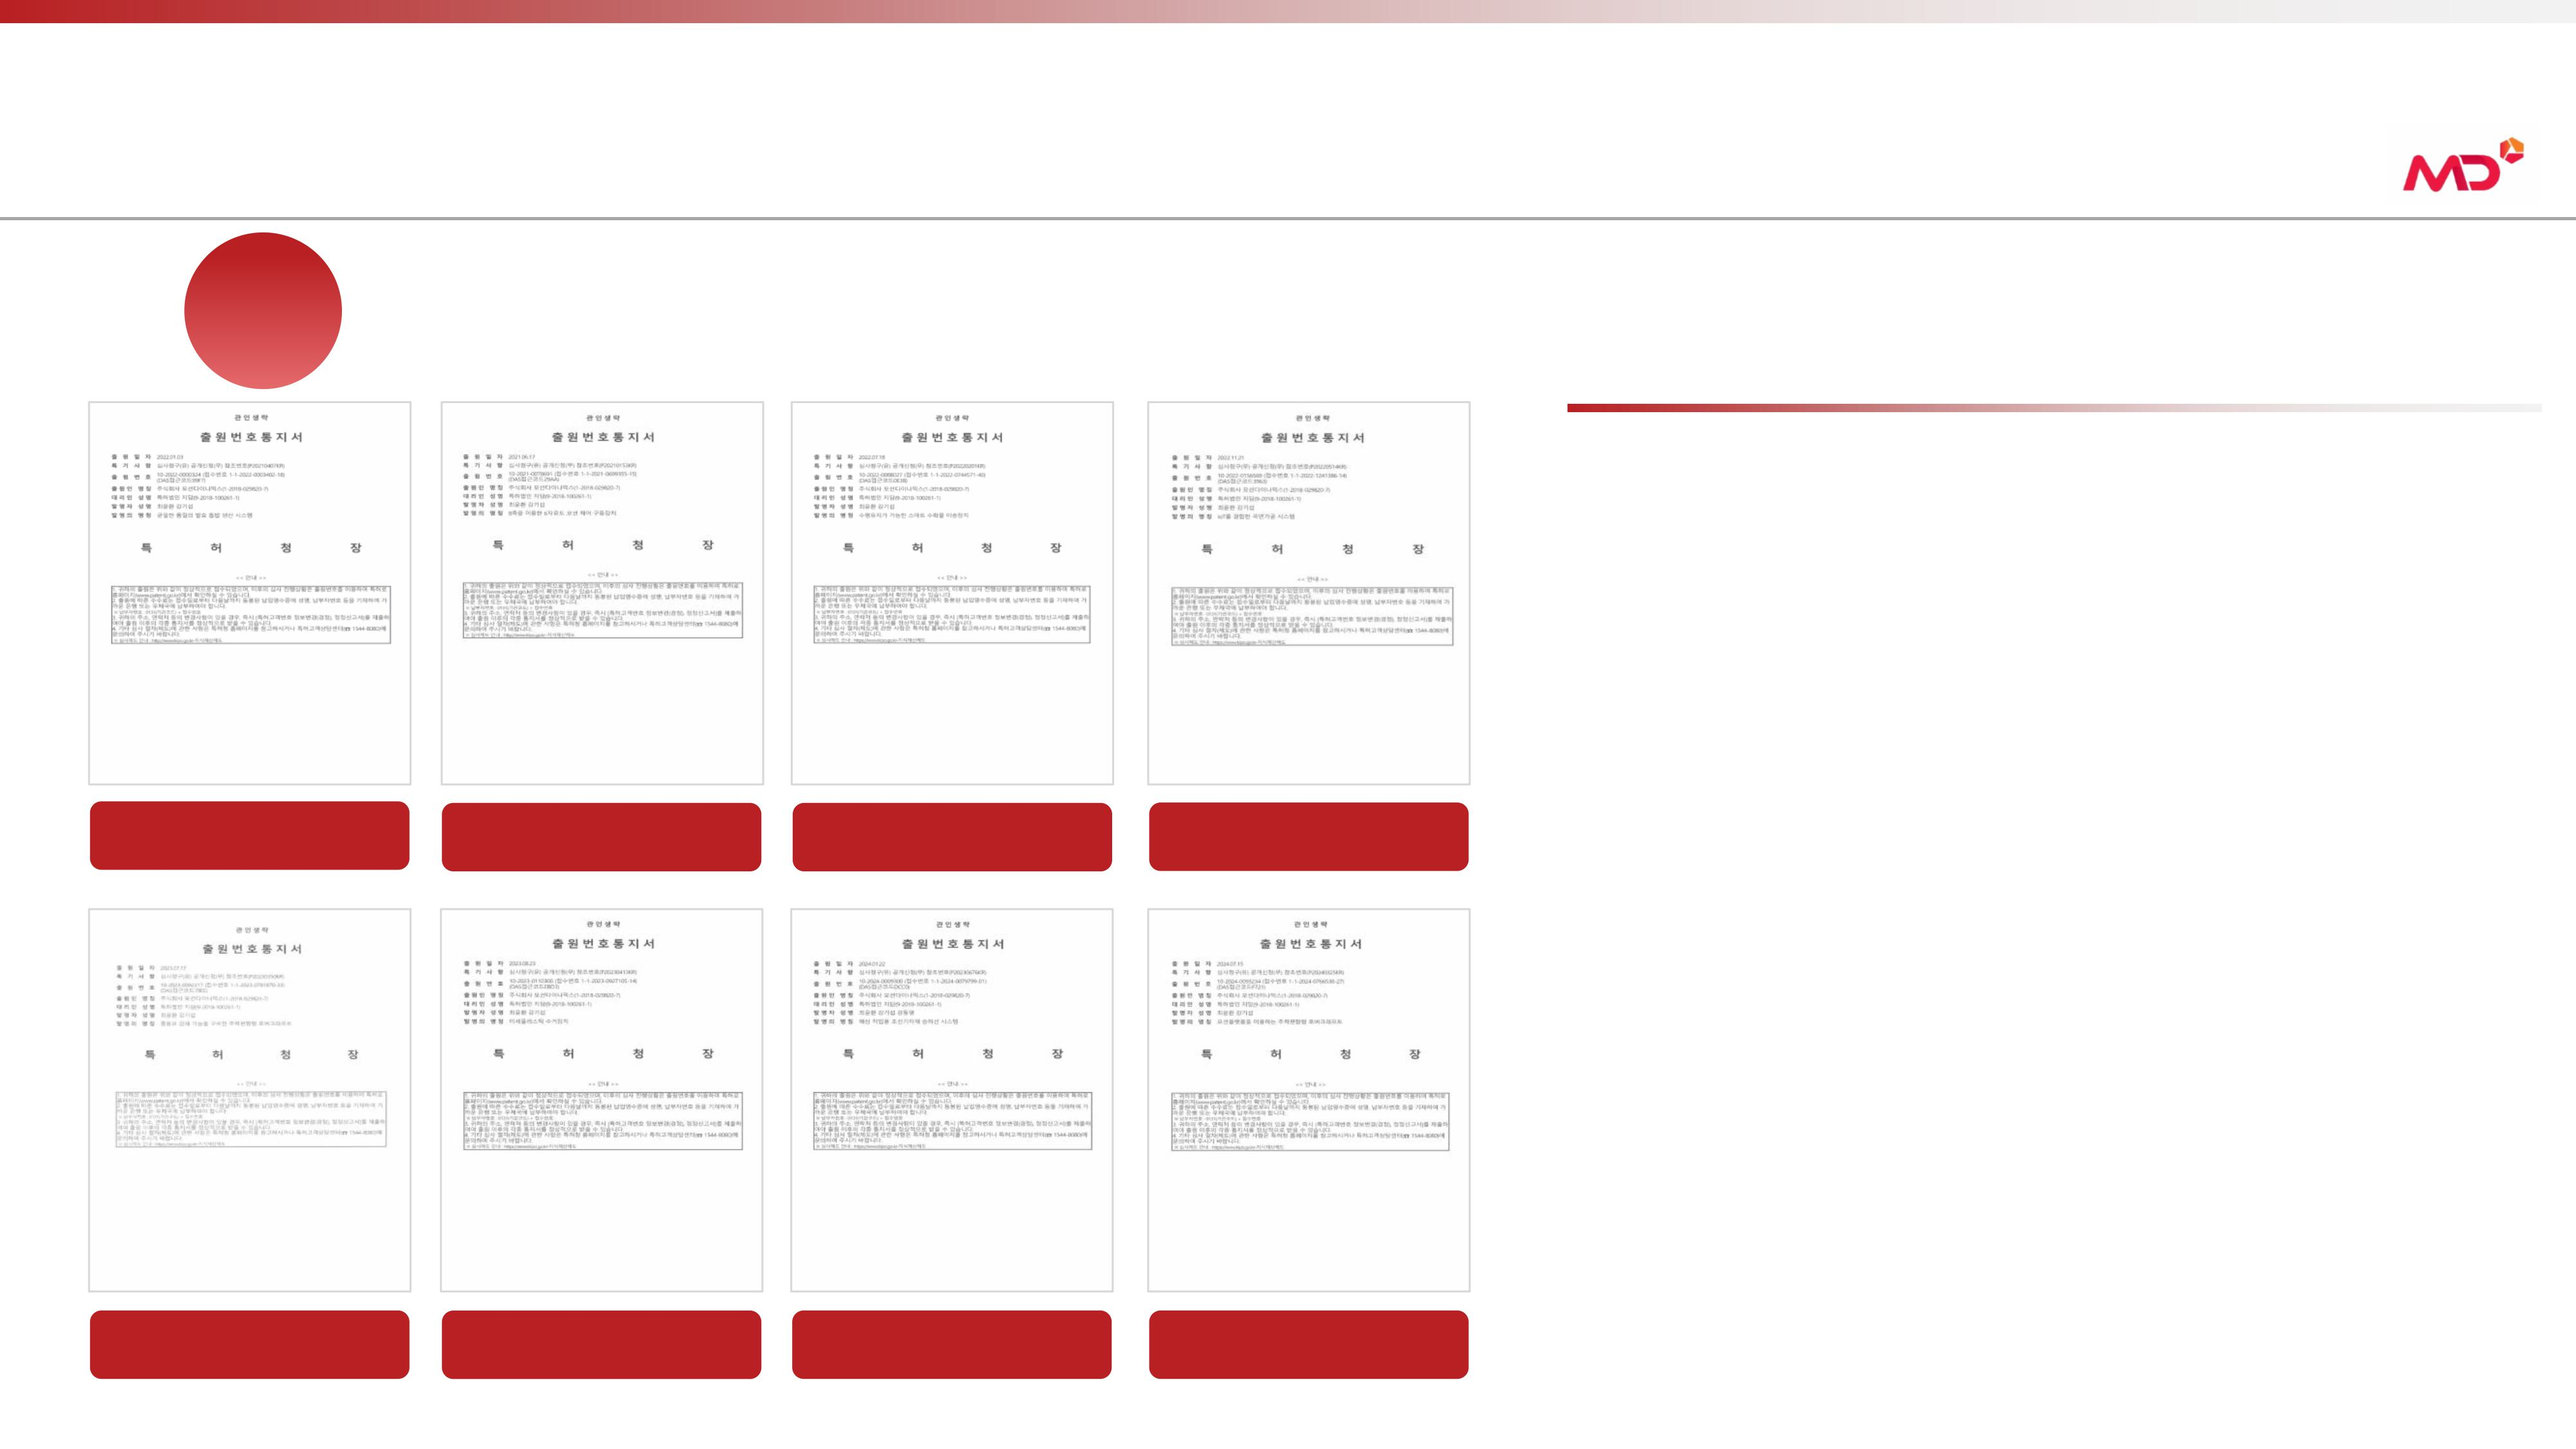
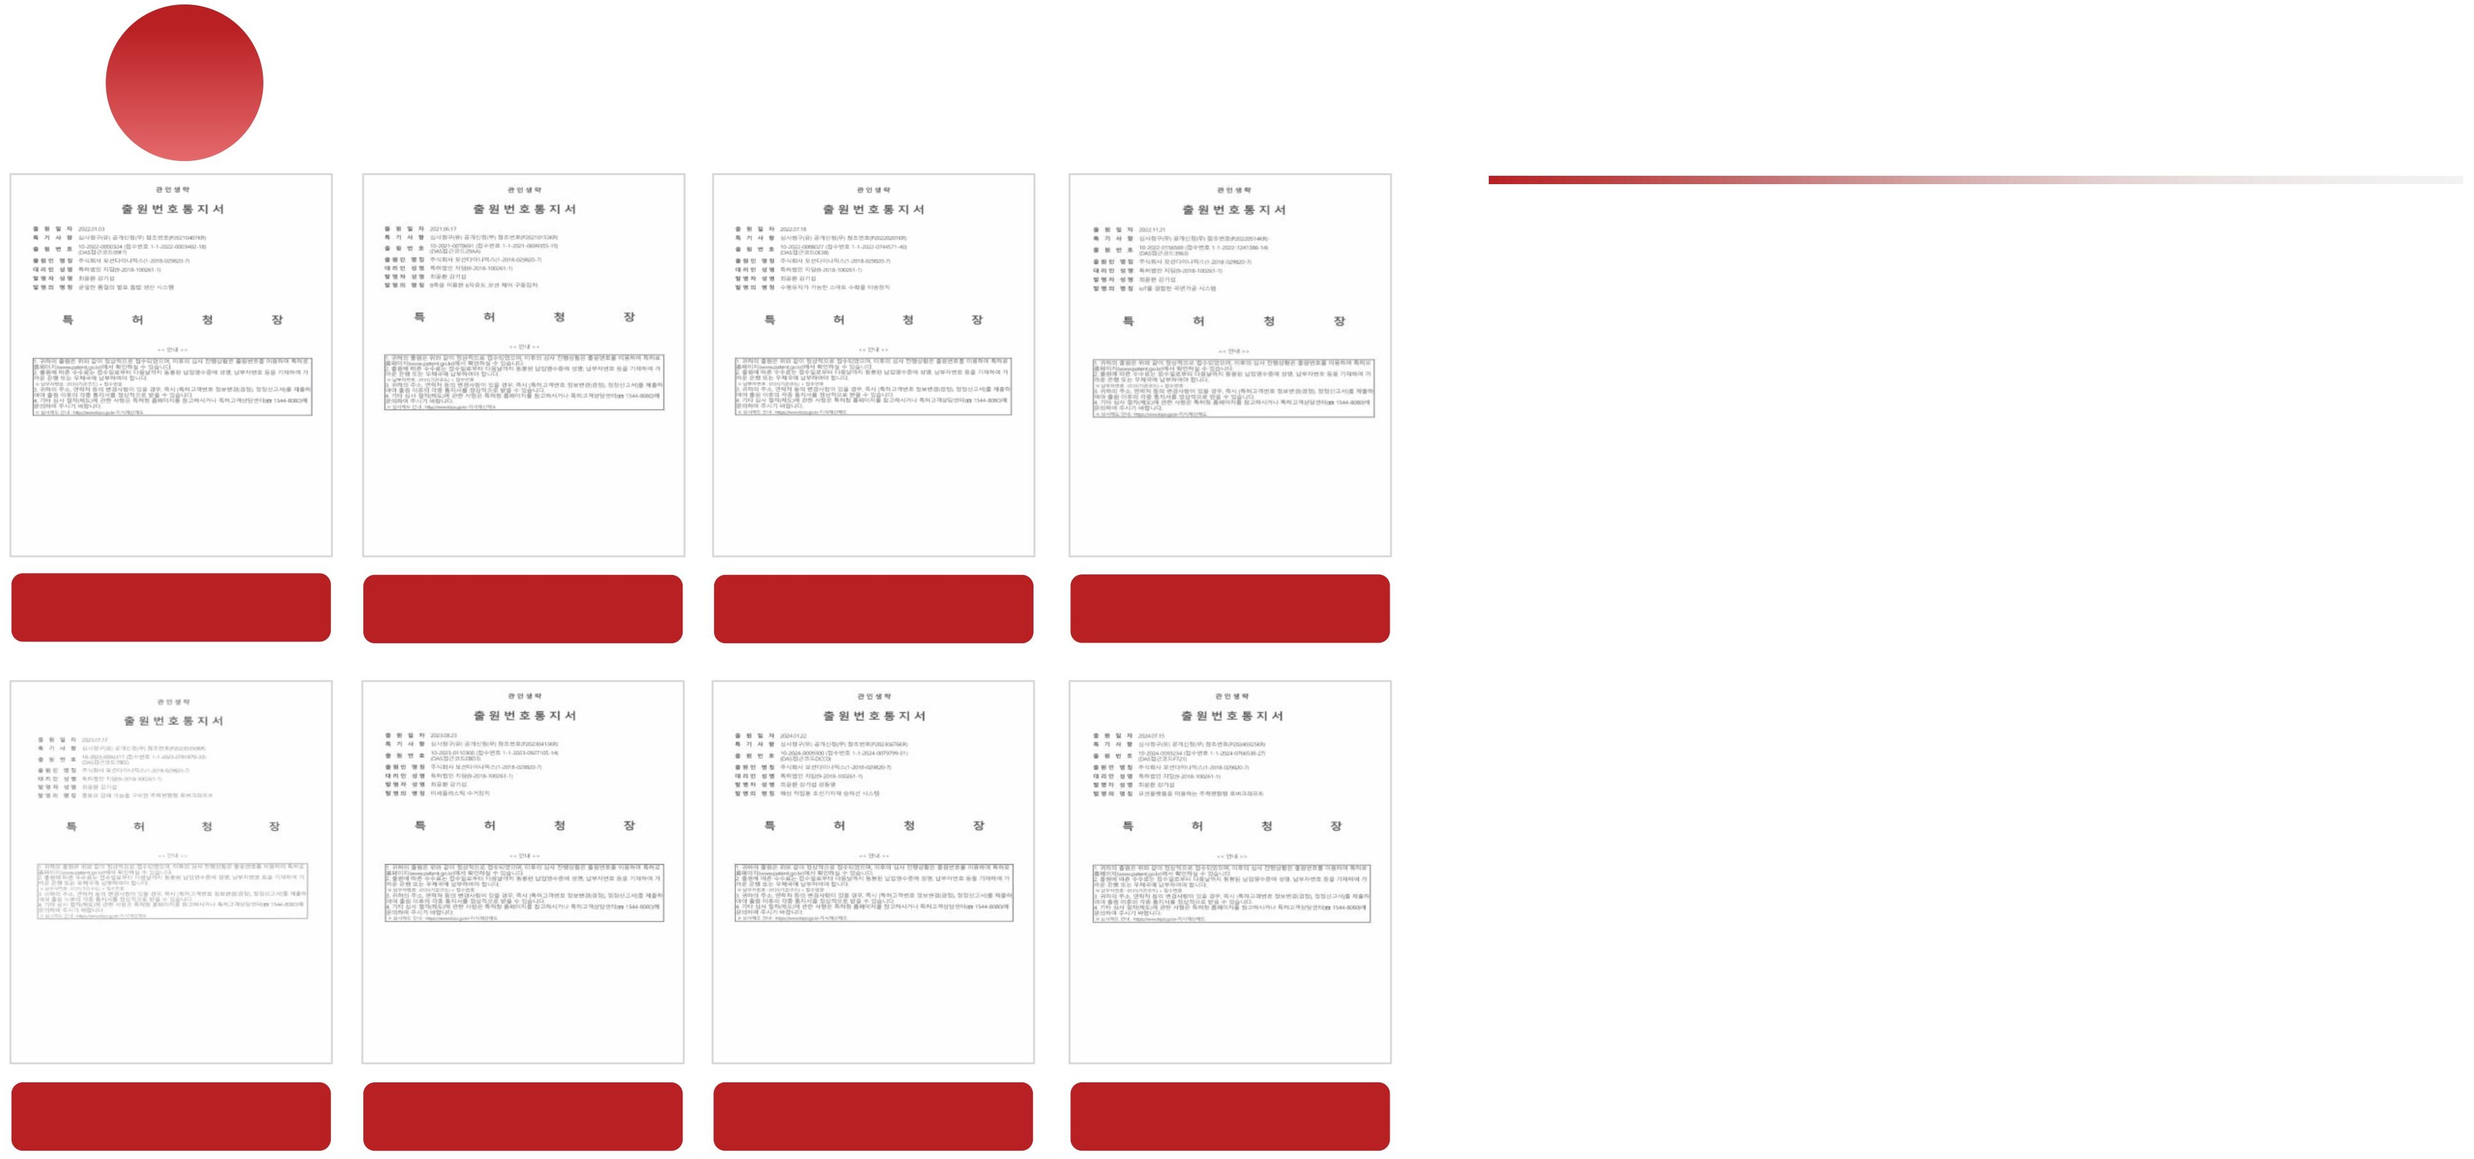
저번주 작업물

diff --git a/docs/index.html b/docs/index.html
@@ -506,16 +506,16 @@
                       <tbody>
                         <tr>
                           <td>특허</td>
-                          <td>경사면 조합 기반 굴곡면 형성 트레드밀</td>
-                          <td>10-1723179</td>
-                          <td>2017.03.29</td>
+                          <td>높이조절형 구름 유도식 복합 액추에이터를 이용한 트레드밀</td>
+                          <td>10-1657934</td>
+                          <td>2016.09.09</td>
                           <td>등록</td>
                         </tr>
                         <tr>
                           <td>특허</td>
-                          <td>높이조절형 구름 유도식 복합 액추에이터를 이용한 트레드밀</td>
-                          <td>10-1657934</td>
-                          <td>2016.09.09</td>
+                          <td>경사면 조합 기반 굴곡면 형성 트레드밀</td>
+                          <td>10-1723179</td>
+                          <td>2017.03.29</td>
                           <td>등록</td>
                         </tr>
                         <tr>
@@ -625,8 +625,130 @@
                         </tr>
                       </tbody>
                     </table>
-                  </div>
+                </div>
             </div>
+
+            <!-- <div class="property2">
+                <img src="IMG/empty-14.jpg"/>
+                <p class="property2-info1">특허출헌</p>
+                <p class="property2-info1-num">13건</p>
+                <p class="property2-info2">균일한 품질의 발효 톱밥 생산 시스템</p>
+                <p class="property2-info3">8축을 이용한 6자유도 모션제어 구동장치</p>
+                <p class="property2-info4">수평유지가 가능한 스마트 수확물 이송장치</p>
+                <p class="property2-info5">IOT를 결합한 곡면가공 시스템</p>
+                <p class="property2-info6">종동요 감쇄 기능을 구비한 추력 편향형 호버크래프트</p>
+                <p class="property2-info7">미세플라스틱 수거장치</p>
+                <p class="property2-info8">해상 작업용 조선기자재 승하선 시스템</p>
+                <p class="property2-info9">종동요 저감 메커니즘을 이용한 추력편향형 호버크래프트</p>
+                <p class="property2-title">특허 출헌 목록</p>
+
+                <div class="property2-content">
+                    <table>
+                        <thead>
+                            <tr>
+                                <th>종류</th>
+                                <th>고안의 명칭</th>
+                                <th>등록번호</th>
+                                <th>등록일</th>
+                                <th>상태</th>
+                            </tr>
+                        </thead>
+                        <tbody>
+                            <tr>
+                                <td>특허</td>
+                                <td>균일한 품질의 발효 톱밥 생산 시스템</td>
+                                <td>10-2022-0000324</td>
+                                <td>2022.01.03</td>
+                                <td>출원</td>
+                            </tr>
+                            <tr>
+                                <td>특허</td>
+                                <td>8축을 이용한 6자유도 모션제어 구동장치</td>
+                                <td>10-2021-0078691</td>
+                                <td>2021.06.17</td>
+                                <td>출원</td>
+                            </tr>
+                            <tr>
+                                <td>특허</td>
+                                <td>수평유지가 가능한 스마트 수확물 이송장치</td>
+                                <td>10-2022-0088027</td>
+                                <td>2022.07.18</td>
+                                <td>출원</td>
+                            </tr>
+                            <tr>
+                                <td>특허</td>
+                                <td>실시간 해류의 흐름을 측정하기 위한 해류 측정 시스템</td>
+                                <td>10-2022-0147515</td>
+                                <td>2022.11.08</td>
+                                <td>출원</td>
+                            </tr>
+                            <tr>
+                                <td>특허</td>
+                                <td>IOT를 결합한 곡면가공 시스템</td>
+                                <td>10-2022-0156569</td>
+                                <td>2022.11.21</td>
+                                <td>출원</td>
+                            </tr>
+                            <tr>
+                                <td>특허</td>
+                                <td>차량용 댐퍼 장치를 이루는 방수형 실린더</td>
+                                <td>10-2022-0187974</td>
+                                <td>2022.12.28</td>
+                                <td>출원</td>
+                            </tr>
+                            <tr>
+                                <td>특허</td>
+                                <td>종동요 감쇄 기능을 구비한 추력 편향형 호버크래프트</td>
+                                <td>10-2023-0092217</td>
+                                <td>2023.07.17</td>
+                                <td>출원</td>
+                            </tr>
+                            <tr>
+                                <td>특허</td>
+                                <td>미세플라스틱 수거장치</td>
+                                <td>10-2023-0110300</td>
+                                <td>2023.08.23</td>
+                                <td>출원</td>
+                            </tr>
+                            <tr>
+                                <td>특허</td>
+                                <td>해상 작업용 조선기자재 승하선 시스템</td>
+                                <td>10-2024-0009300</td>
+                                <td>2024.01.22</td>
+                                <td>출원</td>
+                            </tr>
+                            <tr>
+                                <td>특허</td>
+                                <td>모션플랫폼을 이용한 무인잠수정 진회수장치</td>
+                                <td>10-2024-0072848</td>
+                                <td>2024.06.04</td>
+                                <td>출원</td>
+                            </tr>
+                            <tr>
+                                <td>특허</td>
+                                <td>모션플랫폼을 이용하는 추력편향형 호버크래프트</td>
+                                <td>10-2024-0093234</td>
+                                <td>2024.07.15</td>
+                                <td>출원</td>
+                            </tr>
+                            <tr>
+                                <td>특허</td>
+                                <td>종동요 저감 매커니즘을 이용한 추력편향형</td>
+                                <td>10-2024-0185493</td>
+                                <td>2024.12.13</td>
+                                <td>출원</td>
+                            </tr>
+                            <tr>
+                                <td>특허</td>
+                                <td>안테나 자세유지용 6축 모션플랫폼 시스템</td>
+                                <td>10-2024-0202297</td>
+                                <td>2024.12.31</td>
+                                <td>출원</td>
+                            </tr>
+                        </tbody>
+                    </table>
+                </div>
+            </div> -->
         </div>
     </body>
 </html>

diff --git a/docs/intellectual-property.css b/docs/intellectual-property.css
@@ -2,8 +2,8 @@
 
 .intellectual-property {
     width: 900px;
-    height: 450px;
-    margin: -120px auto 0 auto;
+    height: auto;
+    margin: 0px auto 0 auto;
     justify-items: center;
     position: relative;
 }
@@ -12,12 +12,12 @@
     width: 100%;
     height: 1px;
     position: relative;
-    top: 120px;
+    top: 0px;
     background: #B92023;
 }
 
 .property-img {
-    margin: 150px 0 0 auto;
+    margin: 0px 0 0 auto;
     display: flex;
     position: relative;
     width: 100%;
@@ -92,16 +92,18 @@
 
 /* 표 스타일 */
 .property1-table {
-    width: 100%;
+    width: 380px;
+    margin-top: 12px;
     border-collapse: separate;       /* 셀 간격 조절 용이 */
     border-spacing: 0 4px;          /* 행 간 간격 (ppt에서 행 간격처럼) */
-    font-size: 12px;
+    font-size: 8px;
 }
 
 .property1-table th,
 .property1-table td {
-    padding: 8px 6px;               /* 셀 안 여백 */
+    padding: 0px 6px;               /* 셀 안 여백 */
     text-align: left;
+    line-height: 1.2;
 }
 
 /* 각 열 너비/정렬 조정 – 여기서 간격 미세하게 튜닝 가능
@@ -132,3 +134,20 @@
     width: 50px;
     text-align: center;
 } */
+
+
+.property2 {
+    width: 900px;
+    height: 450px;
+    margin: 0px auto 0 auto;
+    justify-items: center;
+    align-items: center;
+    position: relative;
+}
+
+.property2 img {
+    margin: 0px 0 0 auto;
+    display: flex;
+    position: relative;
+    width: 100%;
+}

diff --git a/docs/index.css b/docs/index.css
@@ -90,16 +90,11 @@ body {
 }
 /* 소개-카드-이미지부모 */
 .info-box-item {
+    display: flex;
     width: 65px;
     height: 65px;
     background: #B92023;
     border-radius: 32.5px;
-    margin: auto auto auto auto;
-    justify-content: center;
-    align-items: center;
-}
-/* 소개-카드-이미지 */
-.info-box-item img {
     margin: auto;
     justify-content: center;
     align-items: center;
@@ -122,9 +117,9 @@ body {
 }
 /* 소개-이미지 */
 .info-box-img {
-    width: 50px;
-    height: auto;
-    margin: auto;
+    width: 70%;
+    height: 70%;
+    object-fit: contain;
 }
 /* 소개-박스-제목 */
 .info-box-title {
